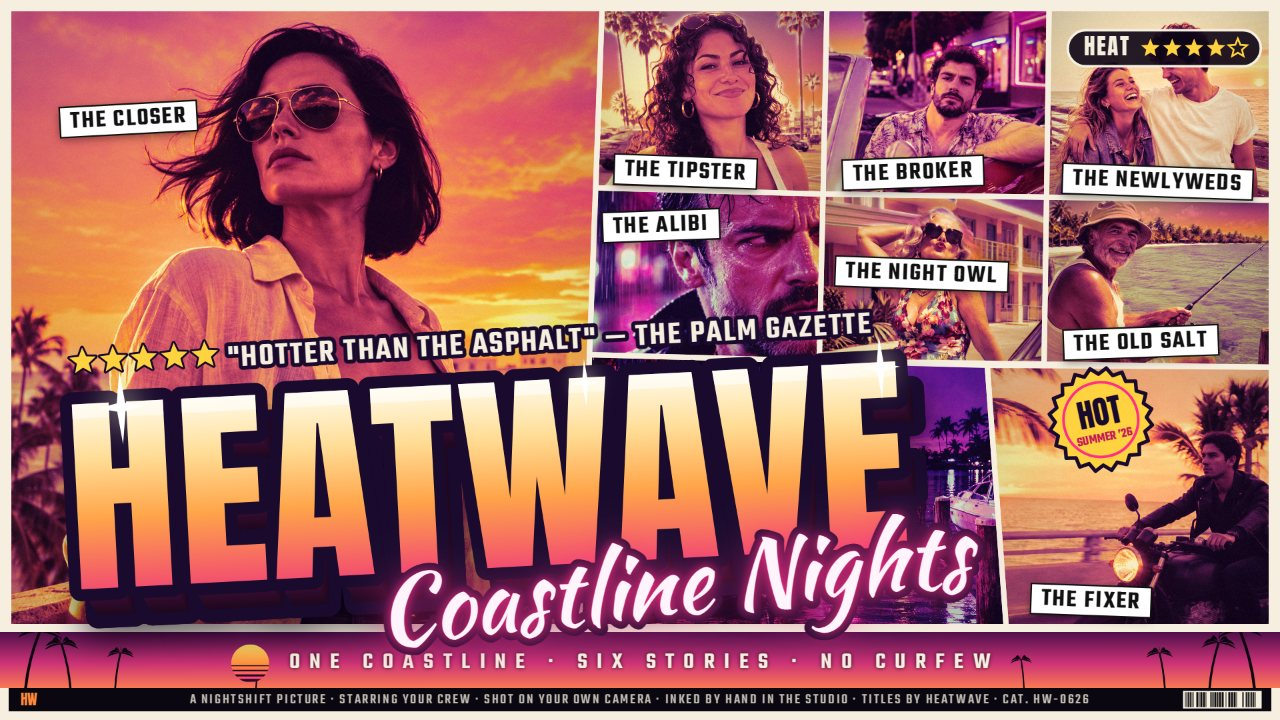
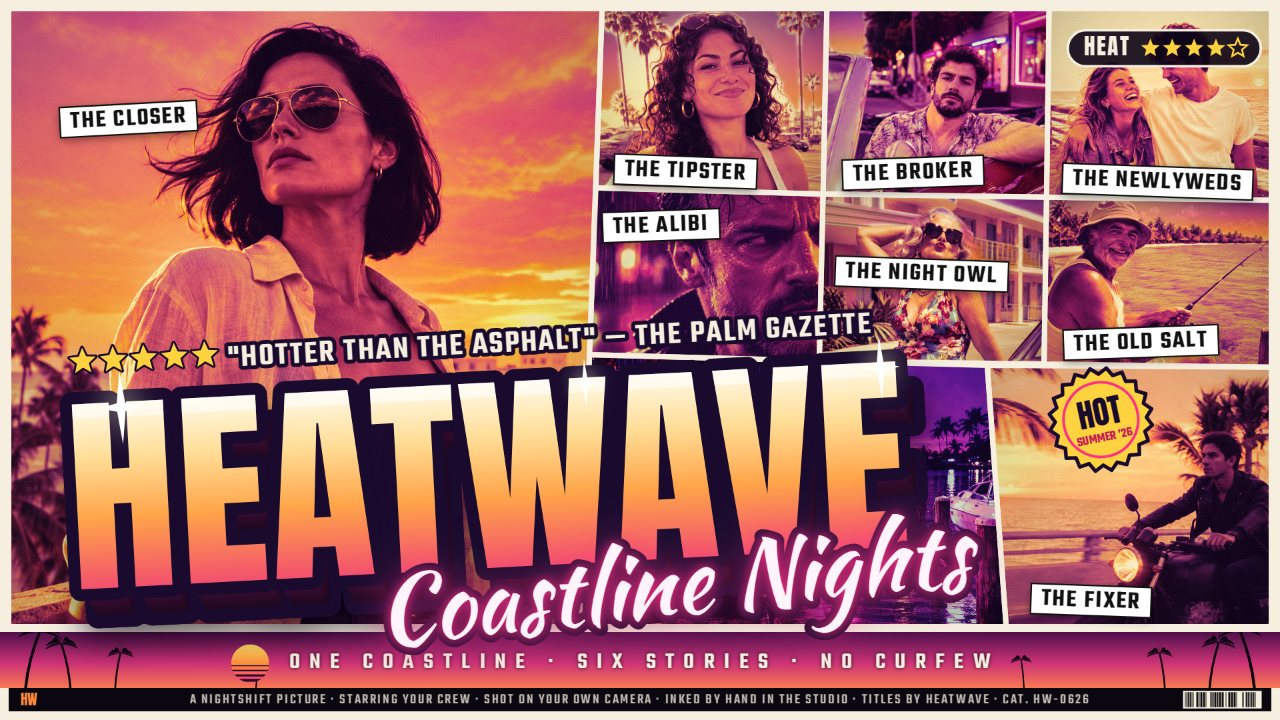
Step 2 (M10): one sunset grade across shot 1 - optional per-panel warm (0..0.3) pushes a panel further into the grade's own gradient map and trims its shadow lift (0 = unchanged for every panel that does not set it, part of the art cache key); Key Art Cast scene warms THE NEWLYWEDS (0.2), THE ALIBI 

diff --git a/app/src/engine/render.js b/app/src/engine/render.js
@@ -134,7 +134,8 @@ const artCache = new Map();
 function panelArt(photo, slot, pw, ph, state, W, i, fast) {
   const ink = state.ink.on && !fast;
   const glow = state.skyGlow !== false && hasSkyPalette(state.gradeId);
-  const key = `${photo.id}|${slot.zoom.toFixed(3)}|${slot.fx.toFixed(3)}|${slot.fy.toFixed(3)}|${pw}x${ph}|${state.gradeId}|${ink ? state.ink.strength : 0}|${W}|${glow ? 'g' : ''}`;
+  const warm = slot.warm ?? 0; // per-panel warm push (M10), 0 for every panel that does not set it
+  const key = `${photo.id}|${slot.zoom.toFixed(3)}|${slot.fx.toFixed(3)}|${slot.fy.toFixed(3)}|${pw}x${ph}|${state.gradeId}|${ink ? state.ink.strength : 0}|${W}|${glow ? 'g' : ''}|${warm}`;
   const hit = artCache.get(key);
   if (hit) { artCache.delete(key); artCache.set(key, hit); return hit; }
   const c = document.createElement('canvas');
@@ -146,10 +147,10 @@ function panelArt(photo, slot, pw, ph, state, W, i, fast) {
   const sky = glow ? skyMaskBeforeGrade(data, skin) : null;
   const lumHalf = ink ? smoothForInk(data, W) : null;
   autoLevelsBeforeGrade(data);
-  applyGradeToPanel(data, state.gradeId, { keepHighlights: ink ? 0.7 : 0 });
+  applyGradeToPanel(data, state.gradeId, { keepHighlights: ink ? 0.7 : 0, warm });
   if (sky) paintSkyGlow(data, sky, state.gradeId);
   if (ink) posterInk(data, lumHalf, { coverW: W, strength: state.ink.strength, paper: gradeColorAt(state.gradeId, 0.5), seed: 17 + i * 101, skin });
-  else liftKeepShadows(data, 0.44);
+  else liftKeepShadows(data, 0.44 * (1 - Math.min(1, warm * 2)));
   grainAndVignette(data, 911 + i * 37);
   cctx.putImageData(data, 0, 0);
   if (!fast) {

diff --git a/app/src/engine/grades.js b/app/src/engine/grades.js
@@ -35,14 +35,16 @@ export const GRADE_ORDER = ['sunsetStrip', 'neonNight', 'goldenHour', 'miamiTeal
 // Grade the pixels of one panel in place.
 // keepHighlights (0..1, Poster Ink uses 0.7): blend the gradient map less in the highlights, so each photo's own
 // sunset sky keeps its orange and pink instead of taking the map's single highlight colour.
-export function applyGradeToPanel(imageData, gradeId, { keepHighlights = 0 } = {}) {
+// warm (0..0.3, M10): a per-panel push toward the grade's own gradient map, so a cool or pale photo matches the rest.
+export function applyGradeToPanel(imageData, gradeId, { keepHighlights = 0, warm = 0 } = {}) {
   const grade = GRADES[gradeId] ?? GRADES.sunsetStrip;
   const lut = gradeLut(gradeId, grade);
   const d = imageData.data;
   const mixAt = new Float32Array(256);
+  const mix = Math.min(0.95, grade.mix + Math.max(0, warm));
   for (let y = 0; y < 256; y++) {
     const t = Math.max(0, Math.min(1, (y / 255 - 0.5) / 0.4));
-    mixAt[y] = grade.mix * (1 - keepHighlights * t * t * (3 - 2 * t));
+    mixAt[y] = mix * (1 - keepHighlights * t * t * (3 - 2 * t));
   }
   for (let i = 0; i < d.length; i += 4) {
     const y = (d[i] * 54 + d[i + 1] * 183 + d[i + 2] * 19) >> 8;

diff --git a/app/src/dev/shot-scenes.js b/app/src/dev/shot-scenes.js
@@ -20,8 +20,9 @@ const SCENES = {
     panels: [
       { photo: 0, zoom: 1, fx: 0.4, fy: 0.3 },
       { photo: 1, zoom: 1.1, fx: 0.5, fy: 0.3 }, { photo: 2, zoom: 1.1, fx: 0.5, fy: 0.3 },
-      { photo: 3, zoom: 1.1, fx: 0.5, fy: 0.35 }, { photo: 4, zoom: 1.3, fx: 0.42, fy: 0.42 },
-      { photo: 5, zoom: 1.1, fx: 0.5, fy: 0.3 }, { photo: 6, zoom: 1.1, fx: 0.5, fy: 0.3 },
+      // M10: warm pushes THE NEWLYWEDS (pale), THE ALIBI (cool blue) and THE OLD SALT (pale) toward the hero's sunset.
+      { photo: 3, zoom: 1.1, fx: 0.5, fy: 0.35, warm: 0.2 }, { photo: 4, zoom: 1.3, fx: 0.42, fy: 0.42, warm: 0.25 },
+      { photo: 5, zoom: 1.1, fx: 0.5, fy: 0.3 }, { photo: 6, zoom: 1.1, fx: 0.5, fy: 0.3, warm: 0.2 },
       { photo: 7, zoom: 1, fx: 0.5, fy: 0.5 }, { photo: 8, zoom: 1.6, fx: 0.55, fy: 0.45 },
     ],
   },
